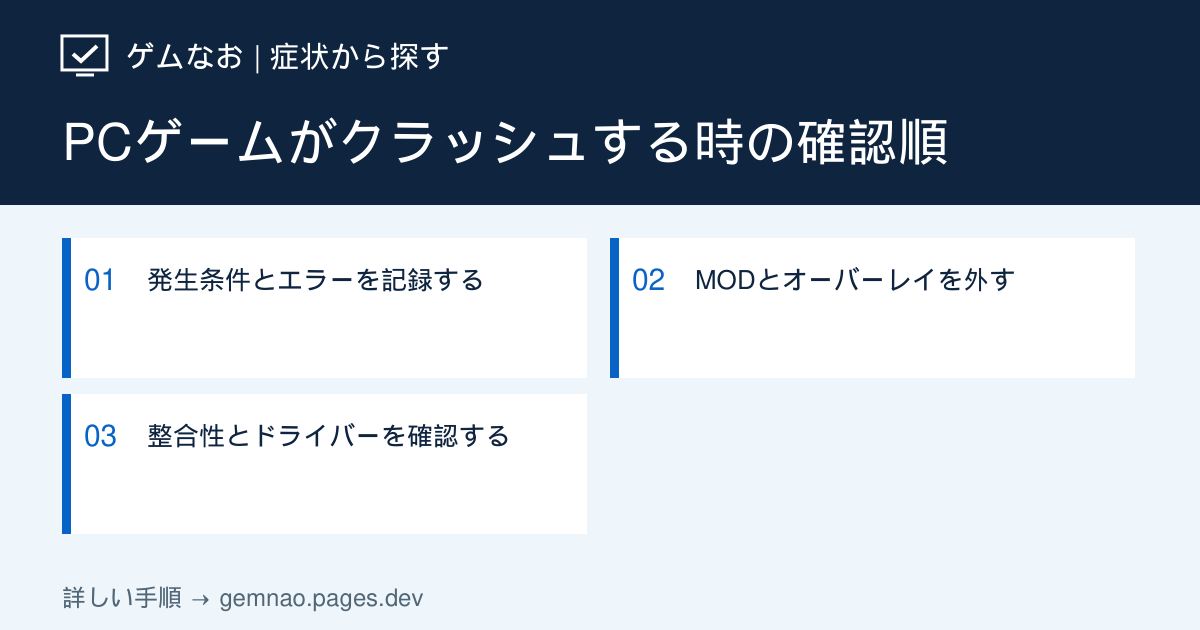
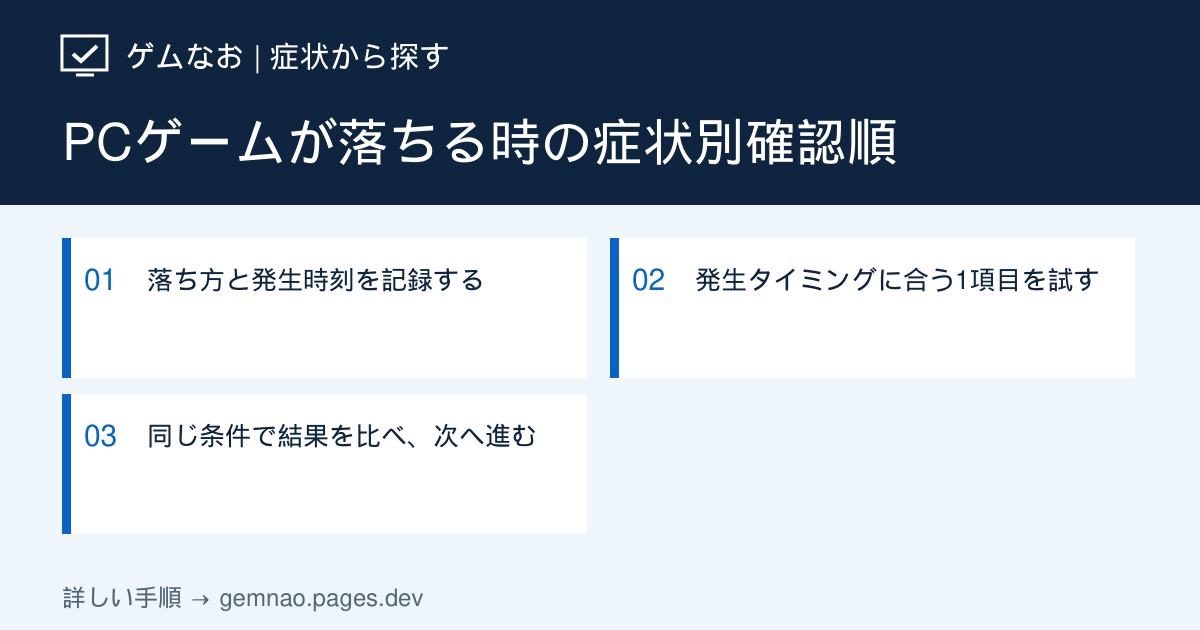
Rewrite game crash guide with timing-based diagnosis and Windows history

diff --git a/components/crash-details.tsx b/components/crash-details.tsx
@@ -1,0 +1,155 @@
+/* oxlint-disable next/no-html-link-for-pages -- Native links match the guide template. */
+
+export function CrashBeforeSteps() {
+  return (
+    <div className="reset-config-details crash-details">
+      <section className="diagnosis-table" id="crash-scope">
+        <h2>まず「ゲームだけ落ちた」かを確認</h2>
+        <p>
+          ここで扱うのは、ゲームが閉じて
+          <strong>Windowsのデスクトップへ戻る</strong>
+          症状です。画面が固まったままなら
+          <a href="/guide/pc-game-freezes">フリーズの手順</a>
+          、PCが消灯・再起動したら
+          <a href="/guide/pc-shuts-down-while-gaming">電源断・再起動の手順</a>、
+          停止コードが出たら
+          <a href="/guide/bsod-while-gaming">ブルースクリーンの手順</a>
+          で確認してください。
+        </p>
+        <p>
+          ゲーム名・バージョン、落ちた時刻、開始からの時間、画面のエラー文、使ったセーブ・場所をメモします。できれば同じ操作で再現するかも確認しますが、セーブ破損が疑われる場合は先にコピーを取ります。
+        </p>
+      </section>
+      <section className="diagnosis-table" id="crash-timing">
+        <h2>起動直後／ロード中／長時間後：最初の確認先</h2>
+        <table className="reset-examples">
+          <thead>
+            <tr>
+              <th scope="col">落ちるタイミング</th>
+              <th scope="col">先に分けること</th>
+              <th scope="col">まず試す1項目</th>
+            </tr>
+          </thead>
+          <tbody>
+            <tr>
+              <td data-label="タイミング">ロゴの前後・起動直後</td>
+              <td data-label="確認">
+                MODやReShadeなど導入後からか。更新前は起動したか
+              </td>
+              <td data-label="最初の対処">
+                MOD管理ツールから無効化して比較。次にオーバーレイを別にオフ。改善しなければ
+                <a href="/guide/reset-config-file">設定ファイルの退避</a>も確認
+              </td>
+            </tr>
+            <tr>
+              <td data-label="タイミング">セーブ・エリアのロード中</td>
+              <td data-label="確認">
+                特定のセーブ・場面だけか、別スロットや新規ゲームでも起きるか
+              </td>
+              <td data-label="最初の対処">
+                <a href="/guide/save-data-backup">セーブをコピー</a>
+                。別スロットも落ちるなら
+                <a href="/guide/verify-steam-files">Steamの整合性確認</a>
+                。特定データだけなら消さずにゲームのサポートへ
+              </td>
+            </tr>
+            <tr>
+              <td data-label="タイミング">数十分～数時間後</td>
+              <td data-label="確認">
+                長く遊ぶほどメモリ・専用GPUメモリの余裕が減るか、温度が上がるか
+              </td>
+              <td data-label="最初の対処">
+                不要アプリを通常終了して比較。VRAMならテクスチャを一段下げる。
+                <a href="/guide/pc-game-freezes">温度の確認方法</a>も参照
+              </td>
+            </tr>
+          </tbody>
+        </table>
+        <p>
+          時間帯は<strong>原因を断定する基準ではありません</strong>
+          。同じゲームでも起動直後のファイル破損、ロード時のMOD競合、長時間後のドライバー障害はあり得ます。下の履歴と比較結果で確認先を更新します。
+        </p>
+      </section>
+    </div>
+  );
+}
+
+export function CrashAfterSteps() {
+  return (
+    <div className="reset-config-details crash-details">
+      <section className="diagnosis-table" id="crash-history">
+        <h2>エラー表示がない時：Windowsの履歴を見る</h2>
+        <ol>
+          <li>
+            <strong>Windowsキー＋R</strong>を押し、<code>perfmon /rel</code>
+            を入力してEnter。「信頼性の履歴」が開いたら、ゲームが閉じた日の
+            <strong>赤い×</strong>
+            を選びます。対象ゲーム名の「動作が停止しました」などがあれば「技術的な詳細の表示」から発生時刻、アプリ名、問題イベント名を控えます。
+          </li>
+          <li>
+            見つからなければスタートを右クリック→「イベント
+            ビューアー」→「Windows
+            ログ」→「アプリケーション」を開きます。落ちた時刻付近の「エラー」を選び、
+            <strong>ゲームの実行ファイル名</strong>
+            が一致するかを確認します。「Application
+            Error」などのイベント1000、近くの「Windows Error
+            Reporting」イベント1001が手掛かりになる場合があります。
+          </li>
+          <li>
+            「全般」にある障害が発生したアプリケーション名、障害モジュール名、例外コード、時刻を控えます。別のアプリのエラーや、数時間ずれた警告だけでゲームの原因と決めつけません。履歴が見つからない時は「記録なし」としてタイミング別の比較を続けます。
+          </li>
+        </ol>
+        <p>
+          例：同時刻に<code>Game.exe</code>
+          の停止が記録され、ゲームだけ閉じたなら、そのゲームの更新・MOD・保存データを優先して調べます。
+          <code>KERNELBASE.dll</code>などのモジュール名は
+          <strong>原因の確定やDLL交換の指示ではありません</strong>
+          。複数ゲームが落ちる、Windowsも停止する場合はPC側も調べます。
+        </p>
+      </section>
+      <section className="diagnosis-table" id="crash-compare">
+        <h2>試した対処が効いたか、同じ条件で比べる</h2>
+        <table className="reset-examples">
+          <thead>
+            <tr>
+              <th scope="col">確認結果</th>
+              <th scope="col">次の行動</th>
+            </tr>
+          </thead>
+          <tbody>
+            <tr>
+              <td data-label="結果">MODを外すと起動する</td>
+              <td data-label="次の行動">
+                導入元の更新情報とゲーム版を照合。必要なMODを戻す前にセーブを保全し、1つずつ有効にして確認
+              </td>
+            </tr>
+            <tr>
+              <td data-label="結果">特定のセーブだけロードできない</td>
+              <td data-label="次の行動">
+                コピーを残し、別スロットが動くか確認。元ファイルを削除せず、対象ゲームのサポートへ記録を送る
+              </td>
+            </tr>
+            <tr>
+              <td data-label="結果">長く遊ぶほどメモリの余裕が減る</td>
+              <td data-label="次の行動">
+                不要アプリを閉じて同じ時間だけ比較。VRAMの余裕が減るならテクスチャを一段下げ、結果を記録
+              </td>
+            </tr>
+            <tr>
+              <td data-label="結果">複数のゲームが落ちる／PCも再起動する</td>
+              <td data-label="次の行動">
+                ゲーム固有の再インストールを重ねず、
+                <a href="/guide/gpu-driver-update">GPUドライバーの更新履歴</a>や
+                <a href="/guide/pc-shuts-down-while-gaming">PC全体の異常</a>
+                を確認
+              </td>
+            </tr>
+          </tbody>
+        </table>
+        <p>
+          「変更前：同じセーブで毎回5分以内に終了／変更：MODだけ無効／変更後：同じ場面を20分進めても終了しない」のように記録します。再現しない時は解決を断定せず、通常のプレイでもう一度確認。ゲーム名と版、エラー時刻、履歴のアプリ名・例外コード、試した項目を相談時に伝えてください。
+        </p>
+      </section>
+    </div>
+  );
+}

diff --git a/lib/crash-guide.ts b/lib/crash-guide.ts
@@ -1,0 +1,93 @@
+import type { CommonGuide } from './common-guides';
+
+export const crashGuide: CommonGuide = {
+  slug: 'pc-game-crash',
+  title: 'PCゲームが落ちる・強制終了する時の対処法｜タイミング別の原因確認',
+  shortTitle: 'ゲームが落ちる・強制終了',
+  description:
+    'PCゲームがデスクトップに戻る時の切り分け方。起動直後・ロード中・長時間プレイ後で確認先を分け、エラー表示がない場合のWindowsの信頼性履歴・イベントビューアーの見方と比較方法を解説します。',
+  conclusion:
+    'まず「ゲームだけ閉じた／PCが再起動した」を分け、落ちた時刻とタイミングを記録します。起動直後はMOD・オーバーレイ、ロード中はセーブを保全してファイルと特定場面、長時間後はメモリ・VRAM・温度の変化を優先して確認。エラー表示がなくても信頼性履歴とイベントビューアーで同時刻のゲーム名を照合し、変更は1項目ずつ試してください。',
+  checkedAt: '2026-09-27',
+  status: 'verified',
+  causes: [
+    '起動直後：MOD・外部ツール・オーバーレイ・設定の競合',
+    'ロード中：特定セーブ・追加データ・ゲームファイルの問題',
+    '長時間後：RAM・VRAMの余裕不足、温度やドライバーの不安定さ',
+    '複数ゲームで再現：ゲーム以外のPC環境も含めて確認が必要',
+  ],
+  steps: [
+    {
+      title: '落ち方と発生時刻を記録する',
+      actions: [
+        '画面がデスクトップへ戻った時刻、起動直後／ロード中／プレイ開始から何分後か、同じ操作で再現するかを控える。PCの電源断・自動再起動・青い画面は別記事で調べる。',
+        '下のWindows履歴の手順で、同時刻の対象ゲームの停止記録を確認する。エラー文がない場合も「記録なし」と残す。記録中のモジュール名だけで原因を断定しない。',
+      ],
+    },
+    {
+      title: '発生タイミングに合う1項目を試す',
+      actions: [
+        '起動直後ならMOD管理ツールでMODを無効化し、次はSteamの対象ゲームの「プロパティ」→「一般」でSteamオーバーレイをオフにして別々に比較。MODが必要なセーブは上書きしない。',
+        'ロード中なら先にセーブをコピーし、別のセーブ／新規ゲームでも落ちるか確認。Steam利用時は「プロパティ」→「インストール済みファイル」→「ゲームファイルの整合性を確認」。MODで変更したファイルが戻る可能性に注意する。',
+        '長時間後なら同じ場面でタスクマネージャーのメモリと専用GPUメモリを比べる。余裕が減るなら不要アプリを通常終了、VRAMが逼迫するならテクスチャを1段階下げる。温度上昇も伴うなら冷却と通気を確認する。',
+      ],
+    },
+    {
+      title: '同じ条件で結果を比べ、次へ進む',
+      actions: [
+        '変更前後で同じセーブ・同じ場面・同程度の時間を比較し、「落ちた時刻／経過時間／試した1項目」を記録。改善しなければその設定を戻し、次の候補に進む。',
+        '1ゲームだけで改善せず、更新直後から発生した場合はGPUドライバーの版と変更日を照合。複数ゲームでも落ちるならPC全体の履歴とメーカーの診断も確認し、ゲームの再インストールだけを繰り返さない。',
+      ],
+    },
+  ],
+  faqs: [
+    {
+      question: '何も表示されずデスクトップに戻ります。どこから調べますか？',
+      answer:
+        '落ちた時刻を控え、Windowsの検索から「信頼性の履歴」を開いて同時刻のゲーム名を探します。見つからない場合はイベントビューアーの「Windows ログ」→「アプリケーション」を確認。記録がなくても、起動直後／ロード中／長時間後のどれかで試す項目を選べます。',
+    },
+    {
+      question:
+        'イベントにKERNELBASE.dllが出たら、そのDLLを入れ直すべきですか？',
+      answer:
+        'いいえ。障害モジュールは障害が記録された場所を示す手掛かりで、単独で破損や故障の証拠にはなりません。対象ゲーム名・時刻・再現条件と、ゲーム側の公式案内を照合してください。DLLを配布サイトから取得しないでください。',
+    },
+    {
+      question: 'ロード画面でだけ落ちます。セーブを消してよいですか？',
+      answer:
+        '削除せず、ゲームを終了してセーブを別の場所へコピーします。別スロットや新規ゲームでも落ちるか比較し、Steam版ならファイル整合性を確認。特定セーブだけならゲームの公式サポートにその状況を伝えます。',
+    },
+    {
+      question: '起動して1時間ほどで落ちます。温度が原因ですか？',
+      answer:
+        '時間だけでは断定できません。落ちる前後のメモリと専用GPUメモリの余裕、温度の変化を確認し、不要アプリを終了するなど1項目ずつ比較します。複数ゲームや通常の操作でも落ちる場合はPCメーカーにも相談してください。',
+    },
+  ],
+  related: [
+    'pc-game-freezes',
+    'pc-shuts-down-while-gaming',
+    'bsod-while-gaming',
+    'save-data-backup',
+    'verify-steam-files',
+    'gpu-driver-update',
+    'vram-shortage',
+  ],
+  sources: [
+    {
+      label: 'Microsoft：イベントビューアーで日時・イベントの詳細を調べる',
+      url: 'https://support.microsoft.com/ja-jp/windows/experience/system-configuration-tools-in-windows',
+    },
+    {
+      label: 'Microsoft Learn：アプリケーションの停止とイベント1000・1001',
+      url: 'https://learn.microsoft.com/en-us/troubleshoot/windows-server/performance/troubleshoot-application-service-crashing-behavior',
+    },
+    {
+      label: 'Dell：信頼性履歴からソフトウェアの問題を調べる',
+      url: 'https://www.dell.com/support/kbdoc/en-us/000178177/how-to-use-windows-reliability-monitor-to-identify-software-issues',
+    },
+    {
+      label: 'Steam：ゲームファイルの整合性確認',
+      url: 'https://help.steampowered.com/ja/faqs/view/0C48-FCBD-DA71-93EB',
+    },
+  ],
+};

diff --git a/app/guide/[slug]/page.tsx b/app/guide/[slug]/page.tsx
@@ -11,6 +11,7 @@ import {
   SteamCloudBeforeSteps,
   SteamCloudAfterSteps,
 } from '@/components/steam-cloud-details';
+import { CrashBeforeSteps, CrashAfterSteps } from '@/components/crash-details';
 import {
   BlackScreenBeforeSteps,
   BlackScreenAfterSteps,
@@ -216,6 +217,14 @@ export default async function Page({
         <aside className="toc issue-toc">
           <strong>このページの内容</strong>
           <a href="#answer">まず試すこと</a>
+          {slug === 'pc-game-crash' ? (
+            <>
+              <a href="#crash-scope">ゲームだけ落ちる？</a>
+              <a href="#crash-timing">タイミング別の対処表</a>
+              <a href="#crash-history">エラーなし時の履歴</a>
+              <a href="#crash-compare">結果から次を選ぶ</a>
+            </>
+          ) : null}
           {slug === 'steam-cloud-sync-error' ? (
             <>
               <a href="#cloud-first">選択前に保全する</a>
@@ -406,6 +415,7 @@ export default async function Page({
           {slug === 'gpu-driver-update' ? <GpuDriverBeforeSteps /> : null}
           {slug === 'bsod-while-gaming' ? <BsodBeforeSteps /> : null}
           {slug === 'steam-cloud-sync-error' ? <SteamCloudBeforeSteps /> : null}
+          {slug === 'pc-game-crash' ? <CrashBeforeSteps /> : null}
           {slug === 'pc-shuts-down-while-gaming' ? (
             <PowerShutdownBeforeSteps />
           ) : null}
@@ -452,6 +462,7 @@ export default async function Page({
           {slug === 'gpu-driver-update' ? <GpuDriverAfterSteps /> : null}
           {slug === 'bsod-while-gaming' ? <BsodAfterSteps /> : null}
           {slug === 'steam-cloud-sync-error' ? <SteamCloudAfterSteps /> : null}
+          {slug === 'pc-game-crash' ? <CrashAfterSteps /> : null}
           {slug === 'pc-shuts-down-while-gaming' ? (
             <PowerShutdownAfterSteps />
           ) : null}
@@ -463,7 +474,9 @@ export default async function Page({
               注意
             </h2>
             <p>
-              {slug === 'steam-cloud-sync-error'
+              {slug === 'pc-game-crash'
+                ? 'MODのあるセーブは退避せずに上書きしないでください。障害モジュール名だけを根拠にDLLを入れ替えたり、不明なダウンロード先からファイルを入手したりしないでください。変更は1項目ずつ、セーブと設定を保全してから試します。'
+                : slug === 'steam-cloud-sync-error'
                 ? '競合画面で選択すると、別の端末やクラウド側の進行が上書きされる可能性があります。複数PCの場合は各PCでゲームを起動しないままコピーを残し、セーブの保存先を推測して削除しないでください。通信エラー中の強行起動や、新しいセーブでの上書きも避けてください。'
                 : slug === 'pc-shuts-down-while-gaming'
                   ? '焦げた臭い・煙・火花・変形・損傷を見つけたら使用を止めてください。電源ユニットやバッテリーを分解せず、損傷した電源コードを差し直して試さないでください。症状を繰り返し再現させず、PCメーカーまたは修理窓口に相談してください。'

diff --git a/lib/common-guides.ts b/lib/common-guides.ts
@@ -1,4 +1,5 @@
 import { blackScreenGuide } from './black-screen-guide';
+import { crashGuide } from './crash-guide';
 import { gpuDriverGuide } from './gpu-driver-guide';
 import { freezeGuide } from './freeze-guide';
 import { stutterGuide } from './stutter-guide';
@@ -294,20 +295,6 @@ const reviewedActions: Record<string, string[][]> = {
       '対象ゲームを起動して同じ症状を確認する。再取得されるファイルがあっても、それだけで故障とは判断しない',
     ],
   ],
-  'pc-game-crash': [
-    [
-      'エラー画面を撮影し、起動直後・ロード中・プレイ中のどこで落ちるか記録する',
-      'ゲーム版、GPU名、ドライバー版、再現するセーブや場面を控える',
-    ],
-    [
-      'MOD管理ツールでMODを無効にして起動する。MOD必須のセーブを上書きしない',
-      '改善しなければSteamのプロパティ→一般でオーバーレイをオフにして再確認する',
-    ],
-    [
-      'Steamはライブラリのゲームを右クリック→プロパティ→インストール済みファイル→ゲームファイルの整合性を確認を選ぶ',
-      '改善しなければGPUメーカーの公式ドライバーを確認して更新し、Windows再起動後に比較する',
-    ],
-  ],
   'black-screen': [
     [
       'ゲームのウィンドウを選び、Alt＋Enterを一度押す',
@@ -430,20 +417,7 @@ export const commonGuides: CommonGuide[] = [
     ['steam-game-not-launching', 'remove-mods-safely', 'reset-config-file'],
     [repair],
   ),
-  mk(
-    'pc-game-crash',
-    'PCゲームがクラッシュ・強制終了する時の切り分け方',
-    'クラッシュ・強制終了',
-    'プレイ中にデスクトップへ戻る場合の共通手順です。',
-    '発生条件を記録し、改変を外し、修復とGPUドライバー確認を行います。',
-    [
-      '発生条件とエラーを記録する',
-      'MODとオーバーレイを外す',
-      '整合性とドライバーを確認する',
-    ],
-    ['gpu-driver-update', 'shader-cache-delete', 'vram-shortage'],
-    [repair, nv, amd],
-  ),
+  crashGuide,
   blackScreenGuide,
   gpuDriverGuide,
   stutterGuide,

diff --git a/app/globals.css b/app/globals.css
@@ -3299,3 +3299,9 @@ kbd {
 .steam-cloud-details ol { margin: 16px 0; padding-left: 24px; list-style: decimal; }
 .steam-cloud-details li + li { margin-top: 8px; }
 .steam-cloud-details code { padding: 2px 5px; border-radius: 4px; background: #eef3f5; }
+
+/* Game crash guide: readable symptom table and Windows history instructions. */
+.crash-details p { margin: 12px 0; }
+.crash-details ol { margin: 16px 0; padding-left: 24px; list-style: decimal; }
+.crash-details li + li { margin-top: 8px; }
+.crash-details code { padding: 2px 5px; border-radius: 4px; background: #eef3f5; overflow-wrap: anywhere; }

diff --git a/lib/visual-guides.ts b/lib/visual-guides.ts
@@ -21,7 +21,7 @@ const specs = [
   [
     'pc-game-crash',
     'pc-game-crash-fix-flow',
-    'PCゲームがクラッシュする時の確認順',
+    'PCゲームが落ちる時の症状別確認順',
   ],
   ['low-fps', 'pc-game-low-fps-checklist', 'FPSが低い時の確認順'],
   [
